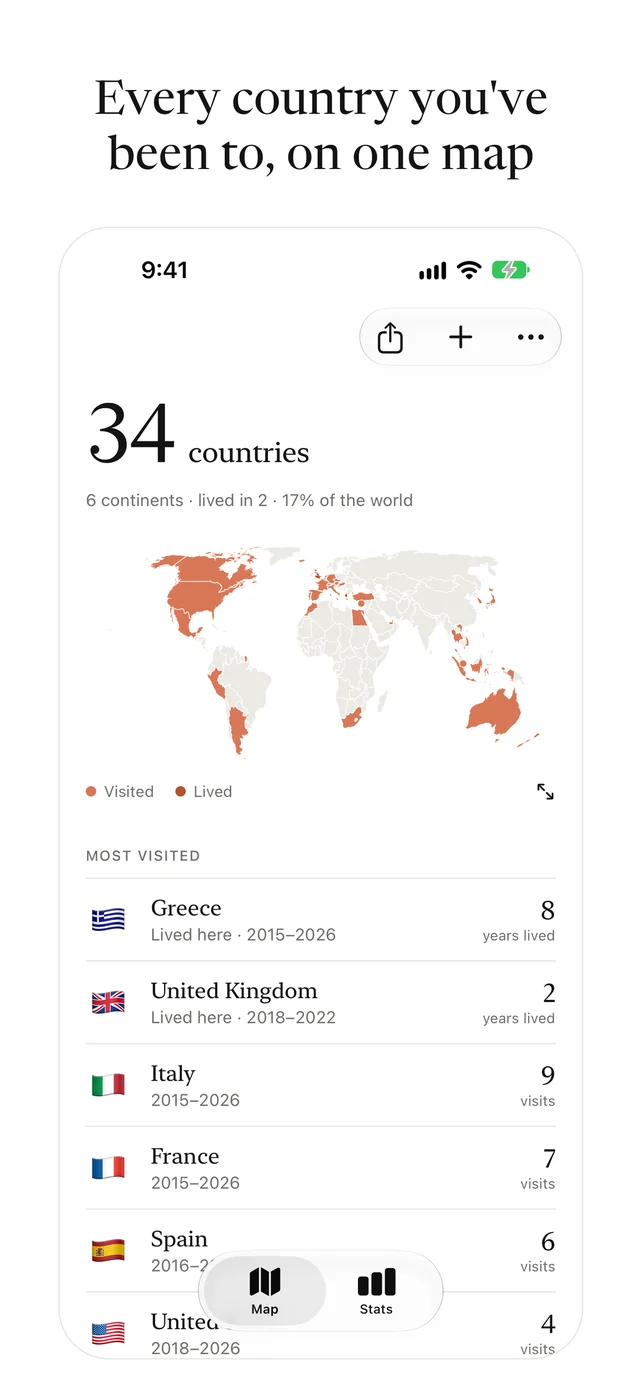
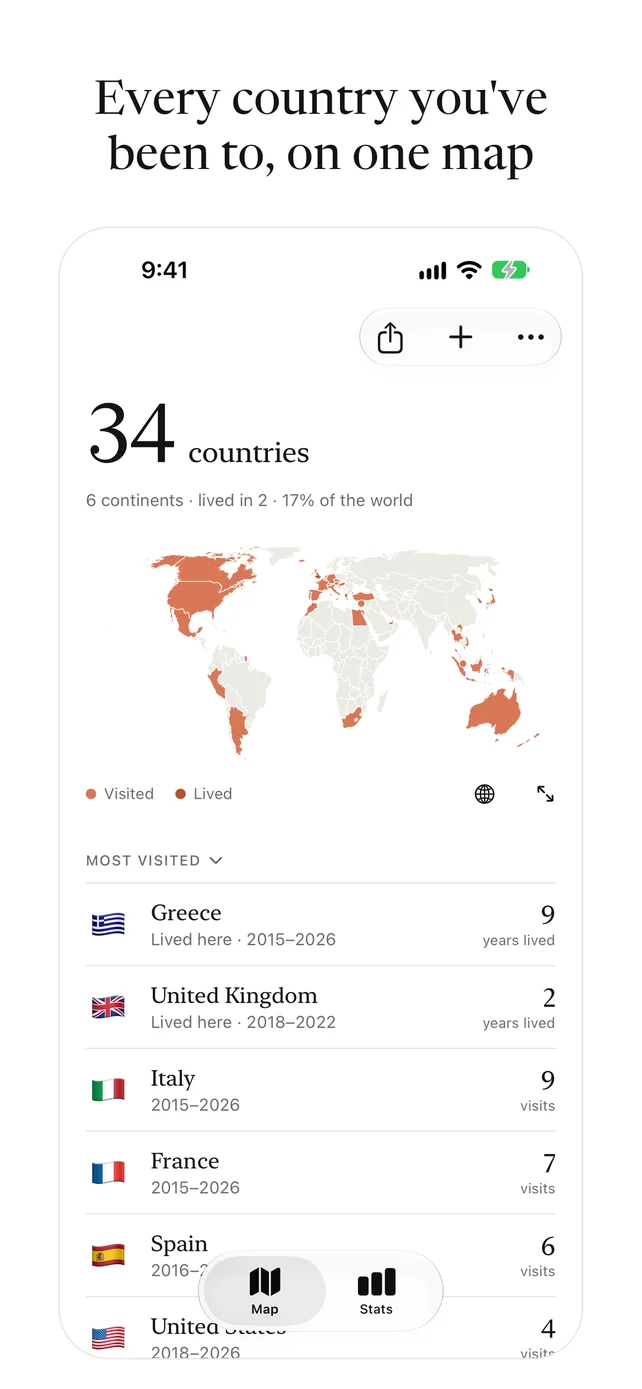
Atlas: new screenshots; features for the globe, adding from the map, merged trips and years lived

diff --git a/atlas/index.html b/atlas/index.html
@@ -51,11 +51,11 @@
 
     <section class="gallery" data-gallery aria-label="Screenshots">
       <ul class="gallery-track" tabindex="0">
-          <li><img src="../assets/img/atlas/01.webp?v=e4c920e0" width="642" height="1389" alt="Every country you&#x27;ve been to, on one map: the count, the map and your list." loading="eager" decoding="async"></li>
-          <li><img src="../assets/img/atlas/02.webp?v=0f56eb3d" width="642" height="1389" alt="Found in your photos, on your iPhone: nothing is uploaded." loading="eager" decoding="async"></li>
-          <li><img src="../assets/img/atlas/03.webp?v=8a37d804" width="642" height="1389" alt="Tap any country to see your visits: zoom in anywhere on the map." loading="eager" decoding="async"></li>
+          <li><img src="../assets/img/atlas/01.webp?v=773a258a" width="642" height="1389" alt="Every country you&#x27;ve been to, on one map: the count, the map and your list." loading="eager" decoding="async"></li>
+          <li><img src="../assets/img/atlas/02.webp?v=c2427e6f" width="642" height="1389" alt="Found in your photos, on your iPhone: nothing is uploaded." loading="eager" decoding="async"></li>
+          <li><img src="../assets/img/atlas/03.webp?v=dd4fa7c9" width="642" height="1389" alt="Tap any country to see your visits: zoom in anywhere on the map, or switch to the globe." loading="eager" decoding="async"></li>
           <li><img src="../assets/img/atlas/04.webp?v=543cc476" width="642" height="1389" alt="Every trip, with its photos: each visit&#x27;s dates and pictures." loading="lazy" decoding="async"></li>
-          <li><img src="../assets/img/atlas/05.webp?v=e6626230" width="642" height="1389" alt="Your travels, year by year: trips, days away and your busiest years." loading="lazy" decoding="async"></li>
+          <li><img src="../assets/img/atlas/05.webp?v=96ab6ffb" width="642" height="1389" alt="Your travels, year by year: trips, days away and your busiest years." loading="lazy" decoding="async"></li>
           <li><img src="../assets/img/atlas/06.webp?v=8a653eec" width="642" height="1389" alt="Share your map as a Story: a post and a line of flags too." loading="lazy" decoding="async"></li>
       </ul>
       <div class="gallery-controls">
@@ -99,10 +99,10 @@
 
     <section class="features">
       <ul>
-        <li><h3>Your map, filled in</h3><p>Every country in your photos, on a world map you can zoom into. Tap any country to see its name and how many times you&#x27;ve been.</p></li>
-        <li><h3>Every trip</h3><p>Each visit to a country, with its dates. Tap a trip to see its photos, and hide any that aren&#x27;t from it.</p></li>
-        <li><h3>Lived here</h3><p>Countries with 90 or more days of photos within a year are marked as places you&#x27;ve lived, in a deeper colour.</p></li>
-        <li><h3>Stats</h3><p>Trips and days away, countries per year, your busiest years and where you went, the countries you go back to most, and your longest trips.</p></li>
+        <li><h3>Your map, filled in</h3><p>Every country in your photos, on a world map you can zoom into or on a turning globe. Tap any country to see how many times you&#x27;ve been, or to add one that isn&#x27;t in your photos.</p></li>
+        <li><h3>Every trip</h3><p>Each visit to a country, with its dates. Tap a trip to see its photos and hide any that aren&#x27;t from it. Merge trips that were really one.</p></li>
+        <li><h3>Lived here</h3><p>Countries with 90 or more days of photos within a year are marked as places you&#x27;ve lived, in a deeper colour, with how long you lived there. Moving somewhere new doesn&#x27;t count as time away.</p></li>
+        <li><h3>Stats</h3><p>Trips and days away, countries per year (tap a year to see where you went), your busiest years, the countries you go back to most, and your longest trips.</p></li>
         <li><h3>Share your map</h3><p>A picture of your map and flags for an Instagram post or Story, or all your flags as emoji for your bio.</p></li>
         <li><h3>Fewer false visits</h3><p>Pictures saved from Instagram, WhatsApp and other apps are left out. You can add, edit or remove any country yourself.</p></li>
       </ul>

diff --git a/index.html b/index.html
@@ -149,7 +149,7 @@
           <a class="pill" href="atlas/">Learn more</a>
           <span class="pill pill-soon">Coming soon</span>
         </p>
-        <div class="tile-shots"><img src="assets/img/atlas/01.webp?v=e4c920e0" width="642" height="1389" alt="" loading="lazy" decoding="async"><img src="assets/img/atlas/03.webp?v=8a37d804" width="642" height="1389" alt="" loading="lazy" decoding="async"><img src="assets/img/atlas/05.webp?v=e6626230" width="642" height="1389" alt="" loading="lazy" decoding="async"></div>
+        <div class="tile-shots"><img src="assets/img/atlas/01.webp?v=773a258a" width="642" height="1389" alt="" loading="lazy" decoding="async"><img src="assets/img/atlas/03.webp?v=dd4fa7c9" width="642" height="1389" alt="" loading="lazy" decoding="async"><img src="assets/img/atlas/05.webp?v=96ab6ffb" width="642" height="1389" alt="" loading="lazy" decoding="async"></div>
       </article>
       </div>
     </section>

diff --git a/build.py b/build.py
@@ -560,18 +560,21 @@ APPS = [
         ),
         "features": [
             ("Your map, filled in",
-             "Every country in your photos, on a world map you can zoom into. "
-             "Tap any country to see its name and how many times you've been."),
+             "Every country in your photos, on a world map you can zoom into or "
+             "on a turning globe. Tap any country to see how many times you've "
+             "been, or to add one that isn't in your photos."),
             ("Every trip",
              "Each visit to a country, with its dates. Tap a trip to see its "
-             "photos, and hide any that aren't from it."),
+             "photos and hide any that aren't from it. Merge trips that were "
+             "really one."),
             ("Lived here",
              "Countries with 90 or more days of photos within a year are marked "
-             "as places you've lived, in a deeper colour."),
+             "as places you've lived, in a deeper colour, with how long you lived "
+             "there. Moving somewhere new doesn't count as time away."),
             ("Stats",
-             "Trips and days away, countries per year, your busiest years and "
-             "where you went, the countries you go back to most, and your "
-             "longest trips."),
+             "Trips and days away, countries per year (tap a year to see where "
+             "you went), your busiest years, the countries you go back to most, "
+             "and your longest trips."),
             ("Share your map",
              "A picture of your map and flags for an Instagram post or Story, "
              "or all your flags as emoji for your bio."),
@@ -611,7 +614,7 @@ APPS = [
         "shots": [
             "Every country you've been to, on one map: the count, the map and your list.",
             "Found in your photos, on your iPhone: nothing is uploaded.",
-            "Tap any country to see your visits: zoom in anywhere on the map.",
+            "Tap any country to see your visits: zoom in anywhere on the map, or switch to the globe.",
             "Every trip, with its photos: each visit's dates and pictures.",
             "Your travels, year by year: trips, days away and your busiest years.",
             "Share your map as a Story: a post and a line of flags too.",
